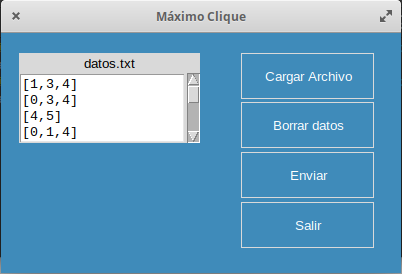
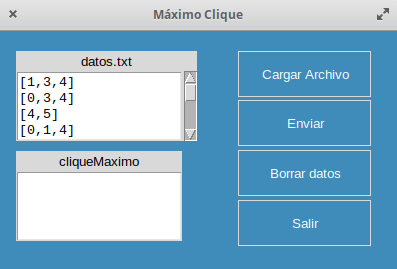
ReadMe Completo

diff --git a/README.md b/README.md
@@ -35,7 +35,7 @@ En mi caso la ruta es la siguiente: **/home/user/proyectoAlgoritmos/Algorithms-P
 
 >Ahora cargamos el archivo **numeros.txt** presionando el botón **Cargar Archivo**
 <p align="center">
-  <img src="capturas/cargar.png" width="350" alt="accessibility text">
+  <img src="capturas/iniciointerfaz.png" width="350" alt="accessibility text">
 </p>
 
 >Y nos aparecera una ventana como la siguiente, en la que nos abrirá de manera inmediata la ruta de la carpeta donde se encuentra el archivo txt
@@ -43,7 +43,24 @@ En mi caso la ruta es la siguiente: **/home/user/proyectoAlgoritmos/Algorithms-P
   <img src="capturas/cargarg.png" width="350" alt="accessibility text">
 </p>
 
->Abrimos el archivo y nos aparecera automáticamente los valores del txt en el cuadro blanco de la interfaz
+>Abrimos el archivo y nos aparecera automáticamente los valores del txt en el cuadro blanco de la interfaz. Podemos observar que en la parte inferior se encuentra otro cuadro de texto llamado **cliqueMaximo**, en esta parte se desplegarán los nodos que contenga el máximo clique.
 <p align="center">
   <img src="capturas/cargarg2.png" width="350" alt="accessibility text">
+</p>
+
+>Seleccionamos el botón de **Enviar** para cargar el archivo txt y obtener como resultado un grafo como el siguiente
+<p align="center">
+  <img src="capturas/gg.png" width="350" alt="accessibility text">
+</p>
+
+>En la imagen anterior, se despliega el grafo construido a partir del archivo txt que se cargo, en **rojo** podemos observar los nodos que forman parte del clique máximo, y en **azul** los nodos que no lo son.
+
+>Al observar ambas pantallas, podemos ver que en el cuadro de texto que anteriormente estaba vacío, ahora aparecen los nodos que forman parte del clique máximo.
+<p align="center">
+  <img src="capturas/ambas.png" width="350" alt="accessibility text">
+</p>
+
+>De igual manera, podemos observar en nuestra terminal nos aparece el total de llamadas recursivas realizadas y los nodos que pertecen al máximo clique.
+<p align="center">
+  <img src="capturas/final.png" width="350" alt="accessibility text">
 </p>
